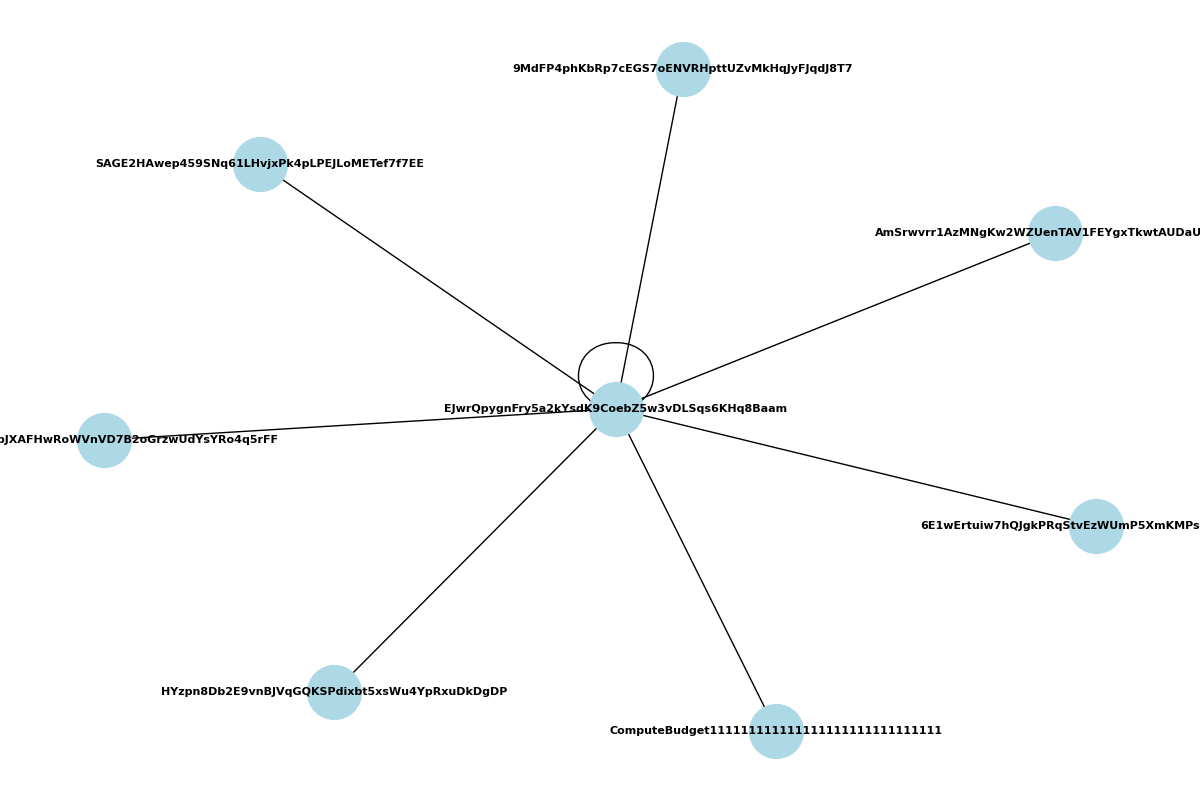
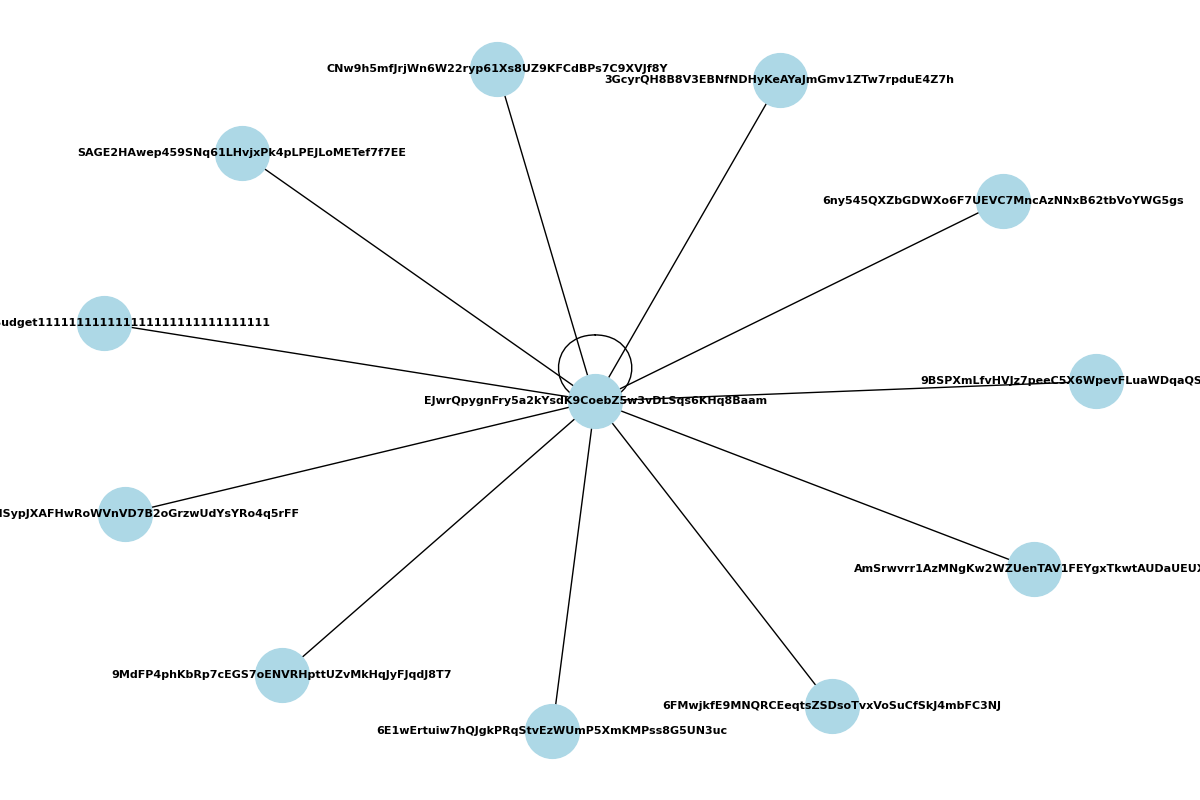
Added weights

diff --git a/main.py b/main.py
@@ -49,18 +49,28 @@ def get_transactions(wallet_address: str) -> List:
 
 def get_connected_wallets(transactions: List, max: int= 10) -> List[str]:
     """Get connected wallets from transactions"""
-    connected_wallets = set()
-    failed = 0
+    connected_wallets = {}
     discovered = 0
     for txn in transactions:
-        print(f"Discovered {discovered} wallets: {failed} failed")
-        if discovered + failed >= max:
+        print(f"Discovered {discovered} wallets")
+        if discovered >= max:
             break
         # Add delay to respect rate limits
         time.sleep(RATE_LIMIT_DELAY)
         
-        # Fetch transaction details
-        txn_details = solana_client.get_transaction(txn.signature, max_supported_transaction_version=0)
+        # Try to fetch transaction details with retries
+        txn_details = None
+        for attempt in range(MAX_RETRIES):
+            try:
+                time.sleep(RATE_LIMIT_DELAY * (attempt + 1)) 
+                txn_details = solana_client.get_transaction(txn.signature, max_supported_transaction_version=0)
+                if txn_details:
+                    break
+            except Exception as e:
+                print(f"Attempt {attempt + 1} failed for transaction {txn.signature}: {str(e)}")
+                if attempt == MAX_RETRIES - 1:
+                    print(f"All attempts failed for transaction {txn.signature}")
+                    continue
         if txn_details and txn_details.value:
             # Get accounts from transaction
             accounts = txn_details.value.transaction.transaction.message.account_keys
@@ -68,28 +78,34 @@ def get_connected_wallets(transactions: List, max: int= 10) -> List[str]:
             for account in accounts:
                 account_str = str(account)
                 print(f"Discovered connected wallet: {account_str}")
-                connected_wallets.add(account_str)
-                discovered += 1
-    return list(connected_wallets)
+                if account_str in connected_wallets:
+                    connected_wallets[account_str] += 1
+                else:
+                    connected_wallets[account_str] = 1
+                    discovered += 1
+    return connected_wallets
 
 def build_wallet_graph(wallet, related_wallets):
     G = nx.Graph()
     G.add_node(wallet)
-    for related in related_wallets:
-        G.add_edge(wallet, related)
+    for related, weight in related_wallets.items():
+        G.add_edge(wallet, related, weight=weight)
     return G
 
 def draw_graph(wallet_graph):
+    edges = wallet_graph.edges()
+    weights = [wallet_graph[u][v]['weight'] for u,v in edges]
     plt.figure(figsize=(12, 8))
     nx.draw(wallet_graph, 
            with_labels=True,
            node_color='lightblue',
            node_size=1500,
            font_size=8,
+           width=weights,
            font_weight='bold')
     plt.savefig('wallet_graph.png')
     plt.close() 
-    
+
 def main(wallet_address):
     transactions = get_transactions(wallet_address)
     connected_wallets = get_connected_wallets(transactions)
